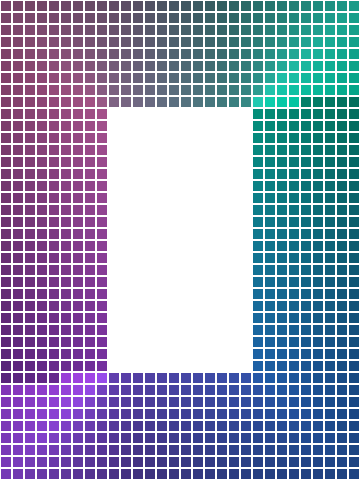
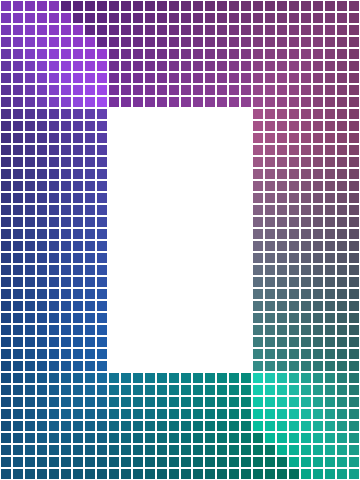
Apply remaining changes

diff --git a/scripts/assets/aura_electro_frames.py b/scripts/assets/aura_electro_frames.py
@@ -52,11 +52,11 @@ def perimeter_coords():
     R = RING
     inner = (x0 + R, y0 + R, x1 - R, y1 - R)
     lt, lv = inner[2] - inner[0], inner[3] - inner[1]      # trechos retos (topo/base e lados)
-    la = (np.pi / 2) * (R / 2)                             # arco da linha central em cada canto
+    la = R                                                 # trecho de cada canto (frente mitrada a 45°)
     per = 2 * (lt + lv) + 4 * la
     cx0 = (x0 + x1) / 2
-    # Nos cantos o feixe gira em torno do vértice interno do anel: as frentes do feixe são raios a partir dele,
-    # então a largura (borda externa - borda interna) fica preenchida de ponta a ponta durante toda a curva.
+    # Nos cantos a frente do feixe é mitrada (diagonal de 45°): s depende de u - v (distâncias ao vértice interno),
+    # então cada passo do feixe acende degraus de quadrados idênticos da grade, sem cunhas nem células deformadas.
     for cy in range(y0, y1, CELL):
         for cx in range(x0, x1, CELL):
             mx, my = cx + CELL / 2, cy + CELL / 2
@@ -66,13 +66,13 @@ def perimeter_coords():
             left, right = mx < inner[0], mx > inner[2]
             up, down = my < inner[1], my > inner[3]
             if up and right:
-                s = lt / 2 + (2 / np.pi) * la * np.arctan2(mx - inner[2], inner[1] - my)
+                s = lt / 2 + la * ((mx - inner[2]) - (inner[1] - my) + R) / (2 * R)
             elif down and right:
-                s = lt / 2 + la + lv + (2 / np.pi) * la * np.arctan2(my - inner[3], mx - inner[2])
+                s = lt / 2 + la + lv + la * ((my - inner[3]) - (mx - inner[2]) + R) / (2 * R)
             elif down and left:
-                s = lt / 2 + 2 * la + lv + lt + (2 / np.pi) * la * np.arctan2(inner[0] - mx, my - inner[3])
+                s = lt / 2 + 2 * la + lv + lt + la * ((inner[0] - mx) - (my - inner[3]) + R) / (2 * R)
             elif up and left:
-                s = lt / 2 + 3 * la + lv + lt + lv + (2 / np.pi) * la * np.arctan2(inner[1] - my, inner[0] - mx)
+                s = lt / 2 + 3 * la + lv + lt + lv + la * ((inner[1] - my) - (inner[0] - mx) + R) / (2 * R)
             elif up:
                 s = (mx - cx0) % per
             elif right:
